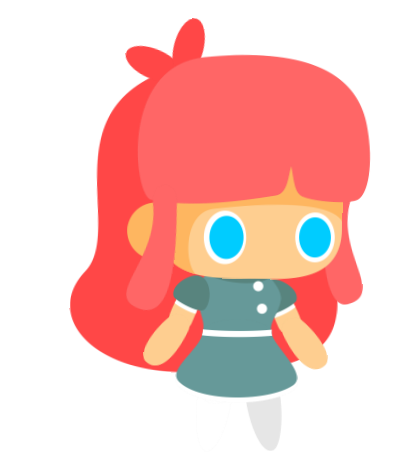
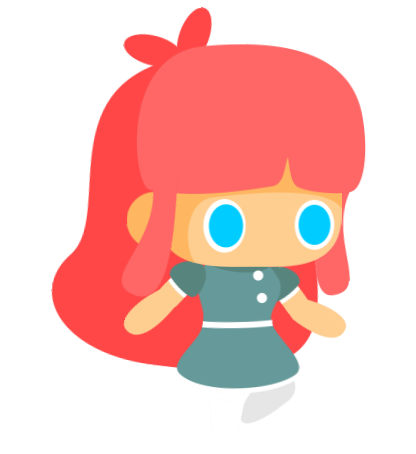
collisioin w/ table

Changed region(s): [[0.125, 0.0, 0.9062, 1.0], [0.3125, 0.2467, 0.3438, 0.2775], [0.1875, 0.7401, 0.2188, 0.7709]]

diff --git a/src/character/CharacterCollisionHandler.java b/src/character/CharacterCollisionHandler.java
@@ -24,11 +24,31 @@ public class CharacterCollisionHandler implements CollisionHandler {
             }
         }
         else if (from instanceof Character && to instanceof Tabel) {
+            Rectangle body = from.getBody();
             int offsetLeft = to.getX() - from.getBody().x;
-            if (offsetLeft < 0) {
-                from.setLocation(new Point(to.getX() + to.getBody().width, from.getY()));
+            int offsetUp = to.getY() - from.getBody().y;
+            if (offsetLeft < 0) { 
+                from.setLocation(new Point(originalLocation.x, from.getY()));
+                /*
+                System.out.printf("To: %d, %d, %d, %d, %d, %d%n", to.getLocation().x, to.getBody().x,
+                        to.getBody().width, to.getBodyOffset().width, to.getBodySize().width, originalLocation.x);
+                System.out.printf("From: %d, %d, %d, %d, %d, %d%n", from.getLocation().x, from.getBody().x,
+                        from.getBody().width, from.getBodyOffset().width, from.getBodySize().width, originalLocation.x);
+                */
             } else {
-                from.setLocation(new Point(to.getX() - to.getBody().width, from.getY()));
+                from.setLocation(new Point(to.getX() - from.getBody().width, from.getY()));
+                /*
+                System.out.printf("To: %d, %d, %d, %d, %d, %d%n", to.getLocation().x, to.getBody().x,
+                        to.getBody().width, to.getBodyOffset().width, to.getBodySize().width, originalLocation.x);
+                System.out.printf("From: %d, %d, %d, %d, %d, %d%n", from.getLocation().x, from.getBody().x,
+                        from.getBody().width, from.getBodyOffset().width, from.getBodySize().width, originalLocation.x);
+                */
+            }
+
+            if (offsetUp < 0) {
+                from.setLocation(new Point(from.getX(), originalLocation.y));
+            } else {
+                from.setLocation(new Point(from.getX(), to.getY() - from.getBody().height));
             }
         }
     }

diff --git a/src/item/StaticItem.java b/src/item/StaticItem.java
@@ -1,11 +1,79 @@
 package item;
 
-import java.awt.Point;
+import fsm.FiniteStateMachine;
+import fsm.ImageRenderer;
+import fsm.State;
+import fsm.WaitingPerFrame;
+import model.Direction;
+import model.Sprite;
+import model.SpriteShape;
 
-public class StaticItem extends Item {
+import java.awt.*;
+import java.util.Set;
+import java.util.concurrent.CopyOnWriteArraySet;
+
+import static fsm.FiniteStateMachine.Transition.from;
+import static fsm.Event.*;
+import static model.Direction.LEFT;
+import static utils.ImageStateUtils.imageStatesFromFolder;
+
+public abstract class StaticItem extends Item {
+
+
+    protected final FiniteStateMachine fsm;
+
+    private final Set<Direction> directions = new CopyOnWriteArraySet<>();
+
 
     public StaticItem(Point location) {
         super(location);
+        fsm = new FiniteStateMachine();
     }
+
+    public void move(Direction direction) {
+        if (direction == LEFT || direction == Direction.RIGHT) {
+            face = direction;
+        }
+        if (!directions.contains(direction)) {
+            this.directions.add(direction);
+            fsm.trigger(MOVE);
+        }
+    }
+
+    public void stop(Direction direction) {
+        directions.remove(direction);
+        if (directions.isEmpty()) {
+            fsm.trigger(STOP);
+        }
+    }
+
+    public void picked(){
+        fsm.trigger(ISPICKED);
+    }
+
+    public void released(){
+        fsm.trigger(ISRELEASED);
+    }
+
+    public void update() {
+        fsm.update();
+    }
+
+    public Set<Direction> getDirections() {
+        return directions;
+    }
+
+    @Override
+    public void render(Graphics g) {
+        //super.render(g);
+        fsm.render(g);
+    }
+
+    @Override
+    public Point getLocation() {
+        return location;
+    }
+
+
     
 }

diff --git a/src/item/MobileItem.java b/src/item/MobileItem.java
@@ -21,10 +21,16 @@ import static utils.ImageStateUtils.imageStatesFromFolder;
  * @author - johnny850807@gmail.com (Waterball)
  */
 public abstract class MobileItem extends Item {
+ 
+    protected final FiniteStateMachine fsm;
+
     private final Set<Direction> directions = new CopyOnWriteArraySet<>();
+
 
     public MobileItem(Point location) {
         super(location);
+
+        fsm = new FiniteStateMachine();
     }
 
     public void move(Direction direction) {
@@ -56,14 +62,14 @@ public abstract class MobileItem extends Item {
         fsm.update();
     }
 
+    public Set<Direction> getDirections() {
+        return directions;
+    }
+
     @Override
     public void render(Graphics g) {
         //super.render(g);
         fsm.render(g);
-    }
-
-    public Set<Direction> getDirections() {
-        return directions;
     }
 
     @Override
@@ -71,20 +77,7 @@ public abstract class MobileItem extends Item {
         return location;
     }
 
-    @Override
-    public Rectangle getRange() {
-        return new Rectangle(location, shape.size);
-    }
 
-    @Override
-    public Dimension getBodyOffset() {
-        return shape.bodyOffset;
-    }
-
-    @Override
-    public Dimension getBodySize() {
-        return shape.bodySize;
-    }
 
 
 }

diff --git a/src/item/Knight.java b/src/item/Knight.java
@@ -19,8 +19,13 @@ import static utils.ImageStateUtils.imageStatesFromFolder;
 
 public class Knight extends MobileItem {
 
+    protected final SpriteShape shape;
+
     public Knight(Point location) {
         super(location);
+        shape = new SpriteShape(new Dimension(146, 176),
+        new Dimension(33, 38), new Dimension(66, 105));
+
         ImageRenderer imageRenderer = new ItemImageRenderer(this);
         State idle = new WaitingPerFrame(4,
                 new Idle(imageStatesFromFolder("assets/item/knight/idle", imageRenderer)));
@@ -38,6 +43,21 @@ public class Knight extends MobileItem {
         fsm.addTransition(from(moving).when(ISPICKED).to(gettingPicked));
         fsm.addTransition(from(idle).when(ISRELEASED).to(gettingReleased));
         fsm.addTransition(from(moving).when(ISRELEASED).to(gettingReleased));
+    }
+
+    @Override
+    public Rectangle getRange() {
+        return new Rectangle(location, shape.size);
+    }
+
+    @Override
+    public Dimension getBodyOffset() {
+        return shape.bodyOffset;
+    }
+
+    @Override
+    public Dimension getBodySize() {
+        return shape.bodySize;
     }
     
 }

diff --git a/src/item/Item.java b/src/item/Item.java
@@ -20,53 +20,10 @@ import static utils.ImageStateUtils.imageStatesFromFolder;
 /**
  * @author - johnny850807@gmail.com (Waterball)
  */
-public class Item extends Sprite {
-    protected final SpriteShape shape;
-    protected final FiniteStateMachine fsm;
-
+public abstract class Item extends Sprite {
 
     public Item(Point location) {
         this.location = location;
-        shape = new SpriteShape(new Dimension(146, 176),
-                new Dimension(33, 38), new Dimension(66, 105));
-        fsm = new FiniteStateMachine();
-
     }
-
-
-    @Override
-    public void update() {
-        fsm.update();
-    }
-
-    @Override
-    public void render(Graphics g) {
-        //super.render(g);
-        fsm.render(g);
-    }
-
-
-    @Override
-    public Point getLocation() {
-        return location;
-    }
-
-    @Override
-    public Rectangle getRange() {
-        return new Rectangle(location, shape.size);
-    }
-
-    @Override
-    public Dimension getBodyOffset() {
-        return shape.bodyOffset;
-    }
-
-    @Override
-    public Dimension getBodySize() {
-        return shape.bodySize;
-    }
-
-
-
-
+    
 }

diff --git a/src/item/Tabel.java b/src/item/Tabel.java
@@ -19,8 +19,13 @@ import static utils.ImageStateUtils.imageStatesFromFolder;
 
 public class Tabel extends StaticItem implements PlaceItemOn {
 
+    protected final SpriteShape shape;
+
     public Tabel(Point location) {
         super(location);
+
+        shape = new SpriteShape(new Dimension(146, 176),
+        new Dimension(33, 38), new Dimension(66, 105));
 
         ImageRenderer imageRenderer = new ItemImageRenderer(this);
         State idle = new WaitingPerFrame(4,
@@ -32,6 +37,21 @@ public class Tabel extends StaticItem implements PlaceItemOn {
     @Override
     public Point itemPlaceLocation() {
         return this.getLocation();
+    }
+
+    @Override
+    public Rectangle getRange() {
+        return new Rectangle(location, shape.size);
+    }
+
+    @Override
+    public Dimension getBodyOffset() {
+        return shape.bodyOffset;
+    }
+
+    @Override
+    public Dimension getBodySize() {
+        return shape.bodySize;
     }
     
 }

diff --git a/src/character/Character.java b/src/character/Character.java
@@ -28,10 +28,10 @@ public class Character extends Sprite {
 
     private MobileItem mobileItem;
 
-    public Character(int damage, Point location) {
+    public Character(Point location) {
         this.location = location;
         shape = new SpriteShape(new Dimension(146, 176),
-                new Dimension(33, 38), new Dimension(66, 105));
+                new Dimension(40, 38), new Dimension(66, 105));
         fsm = new FiniteStateMachine();
         this.mobileItem = null;
 
@@ -129,6 +129,14 @@ public class Character extends Sprite {
 
     public Set<Direction> getDirections() {
         return directions;
+    }
+
+    @Override
+    public void setLocation(Point location) {
+        this.location = location;
+        if(hasMobileItem()){
+            mobileItem.setLocation(mobileItemLocation());
+        }
     }
 
     @Override

diff --git a/src/Main.java b/src/Main.java
@@ -22,10 +22,10 @@ public class Main {
 
 
         // initialization procedure
-        Character p1 = new Character(100, new Point(0, 0));
-        Character p2 = new Character(150, new Point(300, 300));
+        Character p1 = new Character(new Point(0, 0));
+        Character p2 = new Character(new Point(300, 300));
         Knight m1 = new Knight(new Point(150, 150));
-        Tabel t1 = new Tabel(new Point(300, 0));
+        Tabel t1 = new Tabel(new Point(300, 150));
         World world = new World(new CharacterCollisionHandler(), p1, p2, m1, t1);  // model
         Game game = new Game(world, p1, p2, m1);  // controller
         GameView view = new GameView(game);  // view

diff --git a/src/item/Factory.java b/src/item/Factory.java
@@ -1,0 +1,5 @@
+package item;
+
+public interface Factory {
+    
+}
